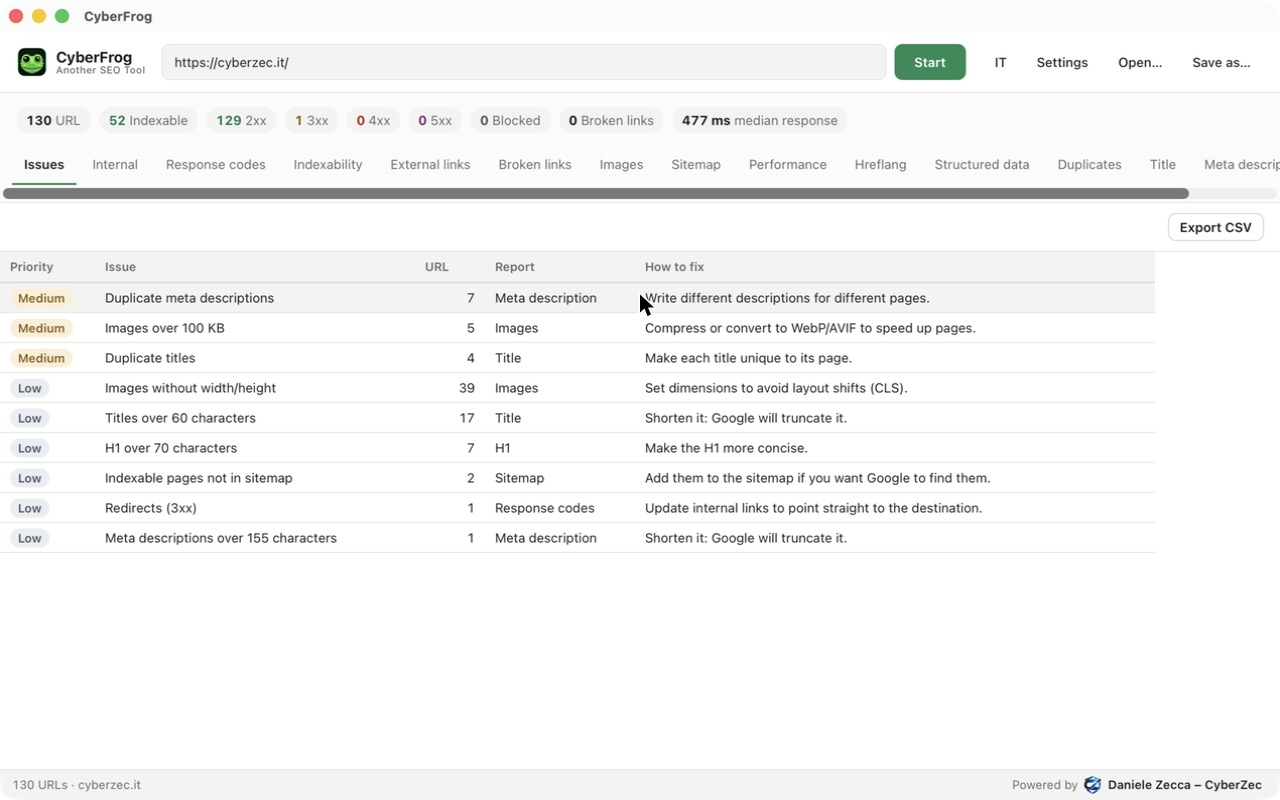
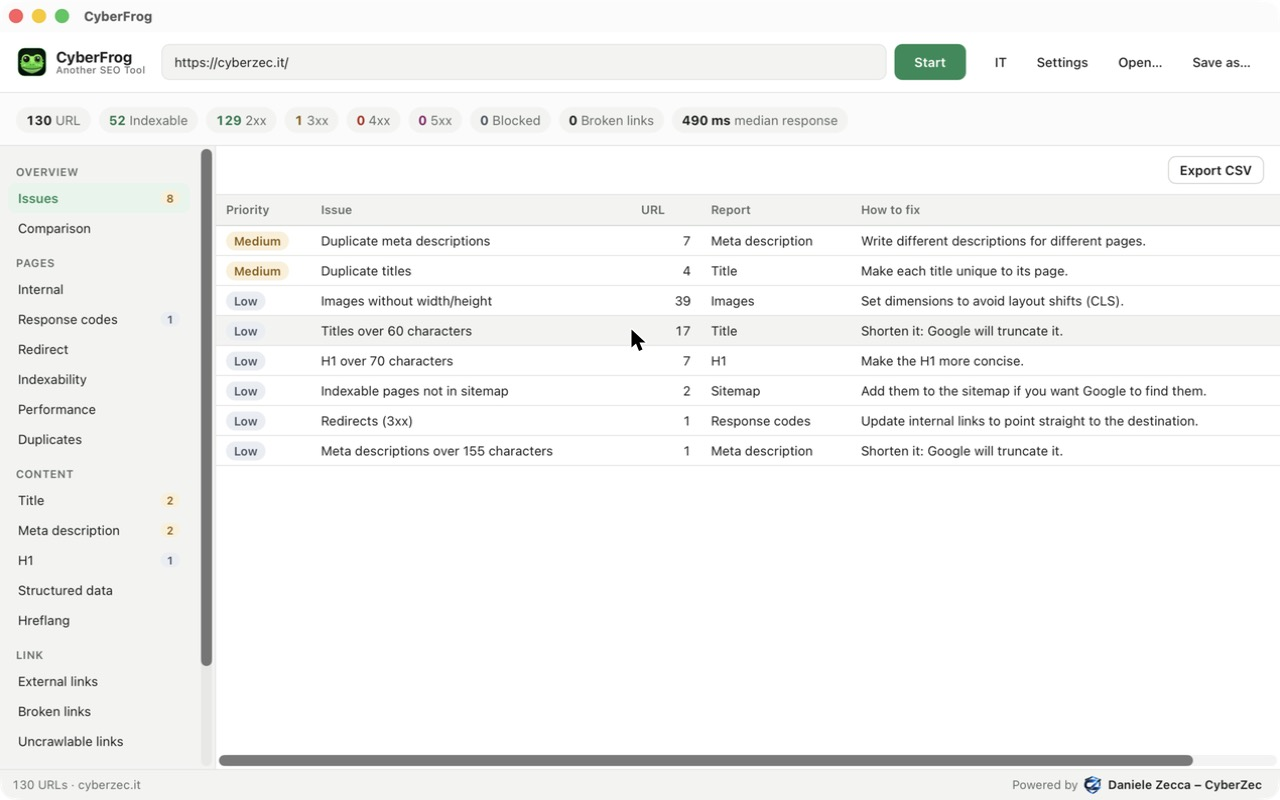
List each custom rule value once per page

diff --git a/src-tauri/src/crawler.rs b/src-tauri/src/crawler.rs
@@ -139,7 +139,14 @@ fn apply_rules(doc: &Html, html: &str, rules: &[CustomRule]) -> Vec<(String, Str
                 .collect(),
             Matcher::Search(re) => vec![re.find_iter(html).count().to_string()],
         };
-        out.extend(values.into_iter().map(|v| (rule.name.clone(), v)));
+        // a value repeated on the page (e.g. an ID in two scripts) is listed once
+        let mut seen = HashSet::new();
+        out.extend(
+            values
+                .into_iter()
+                .filter(|v| seen.insert(v.clone()))
+                .map(|v| (rule.name.clone(), v)),
+        );
     }
     out
 }
@@ -1820,7 +1827,8 @@ mod tests {
     fn custom_rules_extract_values_and_count_matches() {
         let html = r#"<html><head><meta property="article:author" content=" Daniele Zecca ">
             <script async src="https://www.googletagmanager.com/gtag/js?id=G-ABC123"></script></head>
-            <body><span class="price">€ 49</span><span class="price">€ 99</span><span class="price"> </span></body></html>"#;
+            <body><span class="price">€ 49</span><span class="price">€ 99</span><span class="price">€ 49</span>
+            <span class="price"> </span></body></html>"#;
         let rules = [
             CustomRule::new("Prezzo", "css", ".price", None).unwrap(),
             CustomRule::new(
@@ -1842,7 +1850,7 @@ mod tests {
             pairs,
             [
                 ("Prezzo", "€ 49"),
-                ("Prezzo", "€ 99"), // the empty element yields nothing
+                ("Prezzo", "€ 99"), // the repeated € 49 and the empty element yield nothing
                 ("Autore", "Daniele Zecca"),
                 ("GA4 ID", "G-ABC123"),
                 ("GTM", "1"),
